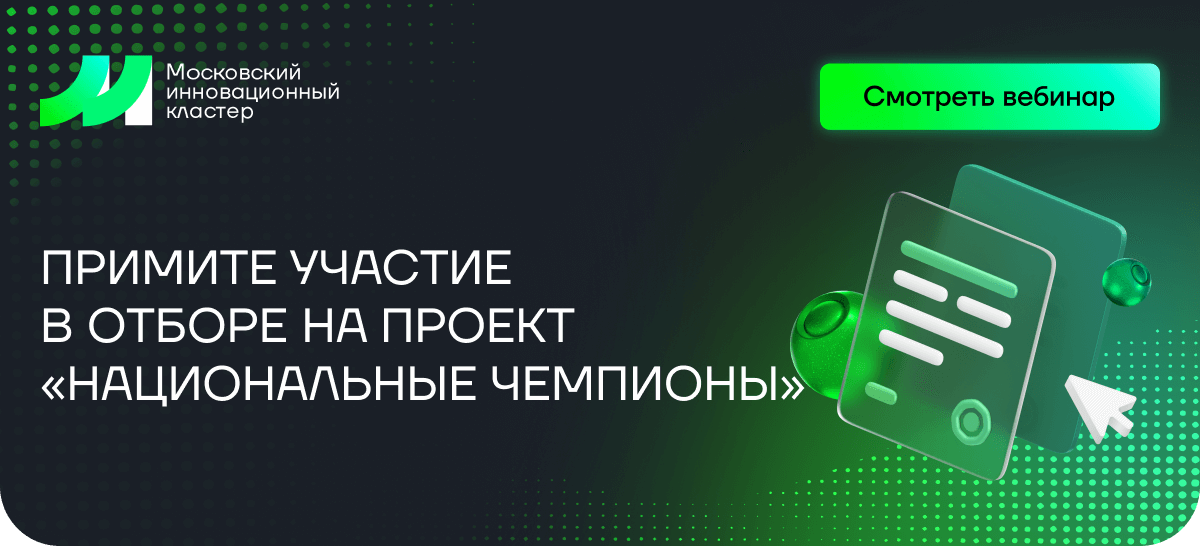
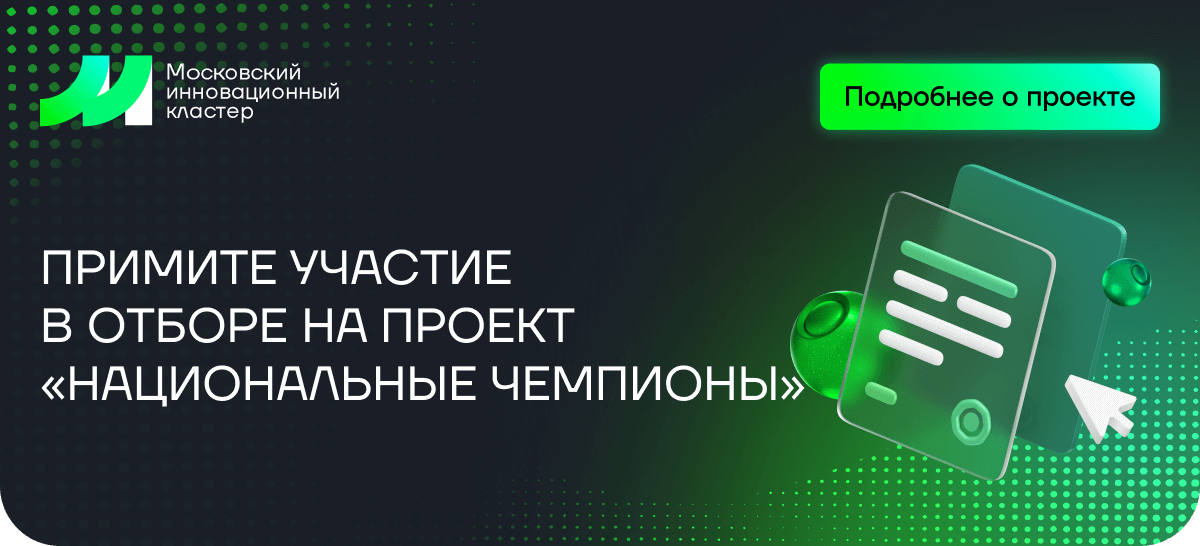
change mik-48

Changed region(s): [[0.6783, 0.1557, 0.9558, 0.2179]]

diff --git a/mik-48/Национальные чемпионы.html b/mik-48/Национальные чемпионы.html
@@ -102,8 +102,8 @@
                                         <tbody>
                                         <tr>
                                             <td style="width:600px;">
-                                                <a href="https://my.mts-link.ru/gsbhse/544538397" target="_blank">
-                                                    <img alt="Примите участие в&nbsp;отборе на проект «Национальные чемпионы». Смотреть вебинар." height="auto" src="https://cp.unisender.com/ru/user_file?resource=images&user_id=5608985&name=mik-48-hero.png" style="border:0;display:block;outline:none;text-decoration:none;height:auto;width:100%;font-size:13px;" width="600" />
+                                                <a href="https://www.natchamp.org/" target="_blank">
+                                                    <img alt="Примите участие в&nbsp;отборе на проект «Национальные чемпионы». Подробнее о проекте." height="auto" src="https://cp.unisender.com/ru/user_file?resource=images&user_id=5608985&name=mik-48-hero.png" style="border:0;display:block;outline:none;text-decoration:none;height:auto;width:100%;font-size:13px;" width="600" />
                                                 </a>
                                             </td>
                                         </tr>
@@ -125,7 +125,7 @@
         <table align="center" border="0" cellpadding="0" cellspacing="0" role="presentation" style="width:100%;">
             <tbody>
             <tr>
-                <td style="direction:ltr;font-size:0px;padding:28px 23px 32px 51px;">
+                <td style="direction:ltr;font-size:0px;padding:28px 23px 38px 51px;">
                     <!--[if mso | IE]><table role="presentation" border="0" cellpadding="0" cellspacing="0"><tr><td class="" style="vertical-align:top;width:600px;" ><![endif]-->
                     <div class="mj-column-per-100 mj-outlook-group-fix" style="font-size:0px;text-align:left;direction:ltr;display:inline-block;vertical-align:top;width:100%;">
                         <table border="0" cellpadding="0" cellspacing="0" role="presentation" style="vertical-align:top;" width="100%">
@@ -133,61 +133,6 @@
                             <tr>
                                 <td align="left" style="font-size:0px;word-break:break-word;">
                                     <div style="font-family:Gilroy, Helvetica, Arial, sans-serif;font-size:20px;font-weight:600;line-height:24px;text-align:left;color:#000000;">Примите участие в&nbsp;отборе на проект «Национальные чемпионы» и&nbsp;войдите в&nbsp;число отечественных компаний, которые будут обеспечивать технологический суверенитет России.</div>
-                                </td>
-                            </tr>
-                            </tbody>
-                        </table>
-                    </div>
-                    <!--[if mso | IE]></td></tr></table><![endif]-->
-                </td>
-            </tr>
-            </tbody>
-        </table>
-    </div>
-    <!--[if mso | IE]></td></tr></table><table align="center" border="0" cellpadding="0" cellspacing="0" class="" style="width:560px;" width="560" bgcolor="#1B1F28" ><tr><td style="line-height:0px;font-size:0px;mso-line-height-rule:exactly;"><![endif]-->
-    <div style="background:#1B1F28;background-color:#1B1F28;margin:0px auto;border-radius:20px;max-width:560px;">
-        <table align="center" border="0" cellpadding="0" cellspacing="0" role="presentation" style="background:#1B1F28;background-color:#1B1F28;width:100%;border-radius:20px;">
-            <tbody>
-            <tr>
-                <td style="direction:ltr;font-size:0px;padding:51px 20px 26px 7px;">
-                    <!--[if mso | IE]><table role="presentation" border="0" cellpadding="0" cellspacing="0"><tr><td class="" style="vertical-align:top;" ><![endif]-->
-                    <div class="mj-outlook-group-fix" style="font-size:0px;text-align:left;direction:ltr;display:inline-block;vertical-align:top;">
-                        <table border="0" cellpadding="0" cellspacing="0" role="presentation" style="vertical-align:top;" width="100%">
-                            <tbody>
-                            <tr>
-                                <td style="font-size:0px;word-break:break-word;">
-                                    <table border="0" cellpadding="0" cellspacing="0" role="presentation" style="border-collapse:collapse;border-spacing:0px;">
-                                        <tbody>
-                                        <tr>
-                                            <td style="width:175px;">
-                                                <img alt="Декоративная картинка" height="auto" src="https://cp.unisender.com/ru/user_file?resource=images&user_id=5608985&name=mik-44-content-img-1.png" style="border:0;display:block;outline:none;text-decoration:none;height:auto;width:100%;font-size:13px;" width="148" />
-                                            </td>
-                                        </tr>
-                                        </tbody>
-                                    </table>
-                                </td>
-                            </tr>
-                            </tbody>
-                        </table>
-                    </div>
-                    <!--[if mso | IE]></td><td class="" style="vertical-align:top;max-width:337px;width:100%;padding-left:10px;padding-right:10px;" ><![endif]-->
-                    <div class="mj-outlook-group-fix" style="font-size:0px;text-align:left;direction:ltr;display:inline-block;vertical-align:top;max-width:337px;width:100%;padding-left:10px;padding-right:10px;">
-                        <table border="0" cellpadding="0" cellspacing="0" role="presentation" style="vertical-align:top;" width="100%">
-                            <tbody>
-                            <tr>
-                                <td align="left" style="font-size:0px;word-break:break-word;padding-top:17px;">
-                                    <div style="font-family:Gilroy, Helvetica, Arial, sans-serif;font-size:20px;font-weight:500;line-height:24px;text-align:left;color:#FFFFFF;width:100%;">Все подробности о&nbsp;том, как участвовать в&nbsp;проекте, вы получите на бесплатном вебинаре, который состоится <span style="display: block;">12 февраля в&nbsp;11:00</span></div>
-                                </td>
-                            </tr>
-                            <tr>
-                                <td vertical-align="middle" style="font-size:0px;word-break:break-word;padding-top:18px;">
-                                    <table border="0" cellpadding="0" cellspacing="0" role="presentation" style="border-collapse:separate;max-width:176px;width:100%;line-height:100%;">
-                                        <tr>
-                                            <td align="center" bgcolor="#00FB07" role="presentation" style="border:none;border-radius:5px;cursor:auto;height:33px;mso-padding-alt:10px 25px;background: linear-gradient(80deg, #00FB07 34.41%, #00FED9 85.02%, #9FFFF6 103.22%);;" valign="middle">
-                                                <a href="https://my.mts-link.ru/gsbhse/544538397" style="display:inline-block;color:#000000;font-family:Gilroy, Helvetica, Arial, sans-serif;font-size:14px;font-weight:600;line-height:16.8px;margin:0;text-decoration:none;text-transform:none;mso-padding-alt:0px;border-radius:5px;" target="_blank">Смотреть вебинар</a>
-                                            </td>
-                                        </tr>
-                                    </table>
                                 </td>
                             </tr>
                             </tbody>
@@ -210,7 +155,7 @@
                         <table border="0" cellpadding="0" cellspacing="0" role="presentation" style="vertical-align:top;" width="100%">
                             <tbody>
                             <tr>
-                                <td align="left" style="font-size:0px;word-break:break-word;padding:24px 23px 17px;">
+                                <td align="left" style="font-size:0px;word-break:break-word;padding:0px 23px 17px;">
                                     <div style="font-family:Gilroy, Helvetica, Arial, sans-serif;font-size:24px;font-weight:600;line-height:28.8px;text-align:left;color:#000000;">ЧТО ПОЛУЧАЮТ УЧАСТНИКИ ПРОЕКТА:</div>
                                 </td>
                             </tr>
@@ -404,7 +349,7 @@
         <table align="center" border="0" cellpadding="0" cellspacing="0" role="presentation" style="width:100%;">
             <tbody>
             <tr>
-                <td style="direction:ltr;font-size:0px;padding:25px 51px 9px;">
+                <td style="direction:ltr;font-size:0px;padding:40px 51px 9px;">
                     <!--[if mso | IE]><table role="presentation" border="0" cellpadding="0" cellspacing="0"><tr><td class="" style="vertical-align:top;width:600px;" ><![endif]-->
                     <div class="mj-column-per-100 mj-outlook-group-fix" style="font-size:0px;text-align:left;direction:ltr;display:inline-block;vertical-align:top;width:100%;">
                         <table border="0" cellpadding="0" cellspacing="0" role="presentation" style="vertical-align:top;" width="100%">
@@ -448,7 +393,7 @@
         </table>
     </div>
     <!--[if mso | IE]></td></tr></table><table align="center" border="0" cellpadding="0" cellspacing="0" class="" style="width:560px;" width="560" ><tr><td style="line-height:0px;font-size:0px;mso-line-height-rule:exactly;"><![endif]-->
-    <div style="margin:0px auto;max-width:560px;border-radius:30px;border:2px solid #00FB07;">
+    <div style="margin:0px auto;max-width:560px;border-radius:30px;border:2px solid #00FB07;margin-bottom:29px;">
         <table align="center" border="0" cellpadding="0" cellspacing="0" role="presentation" style="width:100%;">
             <tbody>
             <tr>
@@ -471,118 +416,6 @@
             </tbody>
         </table>
     </div>
-    <!--[if mso | IE]></td></tr></table><table align="center" border="0" cellpadding="0" cellspacing="0" class="" style="width:600px;" width="600" ><tr><td style="line-height:0px;font-size:0px;mso-line-height-rule:exactly;"><![endif]-->
-    <div style="margin:0px auto;max-width:600px;">
-        <table align="center" border="0" cellpadding="0" cellspacing="0" role="presentation" style="width:100%;">
-            <tbody>
-            <tr>
-                <td style="direction:ltr;font-size:0px;padding:32px 17px 10px 22px;">
-                    <div class="mj-outlook-group-fix" style="font-size:0px;text-align:left;direction:ltr;display:inline-block;vertical-align:top;max-width:290px;width:100%;min-height:119px;background: linear-gradient(80deg, #00FB07 34.41%, #00FED9 85.02%, #9FFFF6 103.22%);;border-radius:20px;margin-right:20px;margin-bottom:20px;">
-                        <table border="0" cellpadding="0" cellspacing="0" role="presentation" style="vertical-align:top;" width="100%">
-                            <tbody>
-                            <tr>
-                                <td style="font-size:0px;word-break:break-word;padding:13px 9px 11px 9px;">
-                                    <table border="0" cellpadding="0" cellspacing="0" role="presentation" style="border-collapse:separate;width:100%;line-height:100%;">
-                                        <tr>
-                                            <td style="font-size:0px;word-break:break-word;padding-bottom:7px">
-                                                <div style="display:inline-block;width:100%;color:#000000;font-family:Gilroy, Helvetica, Arial, sans-serif;font-size:30px;font-weight:600;line-height:120%;margin:0;text-decoration:none;text-transform:none;mso-padding-alt:0px;border-radius:20px;">КОГДА?</div>
-                                            </td>
-                                        </tr>
-                                        <tr>
-                                            <td>
-                                                <div>
-                                                    <table align="center" border="0" cellpadding="0" cellspacing="0" role="presentation" style="width:100%;">
-                                                        <tbody>
-                                                        <tr>
-                                                            <td style="direction:ltr;font-size:0px;">
-                                                                <!--[if mso | IE]><table role="presentation" border="0" cellpadding="0" cellspacing="0"><tr><td class="" style="vertical-align:top;width:121px;margin-right:6px;" ><![endif]-->
-                                                                <div class="mj-outlook-group-fix" style="font-size:0px;text-align:left;direction:ltr;display:inline-block;vertical-align:top;width:121px;border-radius:50px;border:1px solid #000000;margin-right:6px;margin-bottom:10px;">
-                                                                    <table border="0" cellpadding="0" cellspacing="0" role="presentation" style="vertical-align:top;" width="100%">
-                                                                        <tbody>
-                                                                        <tr>
-                                                                            <td align="center" style="font-size:0px;word-break:break-word;height:33px;">
-                                                                                <div style="display:inline-block;color:#000000;font-family:Gilroy, Helvetica, Arial, sans-serif;font-size:16px;font-weight:400;line-height:120%;margin:0;text-decoration:none;text-transform:none;mso-padding-alt:0px;border-radius:20px;">12 февраля</div>
-                                                                            </td>
-                                                                        </tr>
-                                                                        </tbody>
-                                                                    </table>
-                                                                </div>
-                                                                <!--[if mso | IE]></td><td class="" style="vertical-align:top;width:132px;" ><![endif]-->
-                                                                <div class="mj-outlook-group-fix" style="font-size:0px;text-align:left;direction:ltr;display:inline-block;vertical-align:top;width:132px;border-radius:50px;border:1px solid #000000">
-                                                                    <table border="0" cellpadding="0" cellspacing="0" role="presentation" style="vertical-align:top;" width="100%">
-                                                                        <tbody>
-                                                                        <tr>
-                                                                            <td align="center" style="font-size:0px;word-break:break-word;height:33px">
-                                                                                <div style="display:inline-block;color:#000000;font-family:Gilroy, Helvetica, Arial, sans-serif;font-size:16px;font-weight:400;line-height:120%;margin:0;text-decoration:none;text-transform:none;mso-padding-alt:0px;border-radius:20px;">11:00-13:00</div>
-                                                                            </td>
-                                                                        </tr>
-                                                                        </tbody>
-                                                                    </table>
-                                                                </div>
-                                                                <!--[if mso | IE]></td></tr></table><![endif]-->
-                                                            </td>
-                                                        </tr>
-                                                        </tbody>
-                                                    </table>
-                                                </div>
-                                            </td>
-                                        </tr>
-                                    </table>
-                                </td>
-                            </tr>
-                            </tbody>
-                        </table>
-                    </div>
-                    <div class="mj-outlook-group-fix" style="font-size:0px;text-align:left;direction:ltr;display:inline-block;vertical-align:top;width:250px;min-height:119px;background: linear-gradient(80deg, #00FB07 34.41%, #00FED9 85.02%, #9FFFF6 103.22%);margin-bottom:20px;border-radius:20px;">
-                        <table border="0" cellpadding="0" cellspacing="0" role="presentation" style="vertical-align:top;" width="100%">
-                            <tbody>
-                            <tr>
-                                <td style="font-size:0px;word-break:break-word;padding:13px 10px 10px 10px;">
-                                    <table border="0" cellpadding="0" cellspacing="0" role="presentation" style="border-collapse:separate;width:100%;line-height:100%;">
-                                        <tr>
-                                            <td style="font-size:0px;word-break:break-word;padding-bottom:7px">
-                                                <div style="display:inline-block;width:200px;color:#000000;font-family:Gilroy, Helvetica, Arial, sans-serif;font-size:30px;font-weight:600;line-height:120%;margin:0;text-decoration:none;text-transform:none;mso-padding-alt:0px;border-radius:20px;">ГДЕ?</div>
-                                            </td>
-                                        </tr>
-                                        <tr>
-                                            <td>
-                                                <div>
-                                                    <table align="center" border="0" cellpadding="0" cellspacing="0" role="presentation" style="width:100%;">
-                                                        <tbody>
-                                                        <tr>
-                                                            <td style="direction:ltr;font-size:0px;text-align: center;">
-                                                                <!--[if mso | IE]><table role="presentation" border="0" cellpadding="0" cellspacing="0"><tr><td class="" style="vertical-align:top;width:230px;" ><![endif]-->
-                                                                <div class="mj-outlook-group-fix" style="font-size:0px;text-align:left;direction:ltr;display:inline-block;vertical-align:top;width:230px;border-radius:50px;border:1px solid #000000;">
-                                                                    <table border="0" cellpadding="0" cellspacing="0" role="presentation" style="vertical-align:top;" width="100%">
-                                                                        <tbody>
-                                                                        <tr>
-                                                                            <td align="center" style="font-size:0px;word-break:break-word;height:50px;">
-                                                                                <div style="display:inline-block;color:#000000;font-family:Gilroy, Helvetica, Arial, sans-serif;font-size:16px;font-weight:400;line-height:120%;margin:0;text-decoration:none;text-transform:none;mso-padding-alt:0px;border-radius:20px;">Онлайн <a href="https://my.mts-link.ru/gsbhse/544538397" target="_blank" style="color: inherit;display:block;">Отбор нацчемпионов - 2024</a></div>
-                                                                            </td>
-                                                                        </tr>
-                                                                        </tbody>
-                                                                    </table>
-                                                                </div>
-                                                                <!--[if mso | IE]></td><td class="" style="vertical-align:top;width:140px;" ><![endif]-->
-                                                                <!--[if mso | IE]></td></tr></table><![endif]-->
-                                                            </td>
-                                                        </tr>
-                                                        </tbody>
-                                                    </table>
-                                                </div>
-                                            </td>
-                                        </tr>
-                                    </table>
-                                </td>
-                            </tr>
-                            </tbody>
-                        </table>
-                    </div>
-                </td>
-            </tr>
-            </tbody>
-        </table>
-    </div>
     <!--[if mso | IE]></td></tr></table><table align="center" border="0" cellpadding="0" cellspacing="0" class="" style="width:600px;" width="600" ><tr><td style="line-height:0px;font-size:0px;mso-line-height-rule:exactly;"><v:rect style="width:600px;" xmlns:v="urn:schemas-microsoft-com:vml" fill="true" stroke="false"><v:fill origin="0.5, 0" position="0.5, 0" src="https://cp.unisender.com/ru/user_file?resource=images&user_id=5608985&name=mik-23-bg.png" type="tile" size="1,1" aspect="atleast" /><v:textbox style="mso-fit-shape-to-text:true" inset="0,0,0,0"><![endif]-->
     <div style="background:url(https://cp.unisender.com/ru/user_file?resource=images&user_id=5608985&name=mik-23-bg.png) center top / cover repeat;background-position:center top;background-repeat:repeat;background-size:cover;margin:0px auto;max-width:600px;">
         <div style="line-height:0;font-size:0;">
@@ -599,7 +432,7 @@
                                         <table border="0" cellpadding="0" cellspacing="0" role="presentation" style="border-collapse:separate;max-width:373px;width:100%;line-height:100%;">
                                             <tr>
                                                 <td align="center" bgcolor="linear-gradient(80deg, #00FB07 34.41%, #00FED9 85.02%, #9FFFF6 103.22%)" role="presentation" style="border:none;border-radius:10px;cursor:auto;height:50px;mso-padding-alt:10px 25px;background:linear-gradient(80deg, #00FB07 34.41%, #00FED9 85.02%, #9FFFF6 103.22%);" valign="middle">
-                                                    <a href="https://my.mts-link.ru/gsbhse/544538397" style="display:inline-block;color:#000000;font-family:Gilroy, Helvetica, Arial, sans-serif;font-size:25px;font-weight:600;line-height:120%;margin:0;text-decoration:none;text-transform:none;mso-padding-alt:0px;border-radius:5px;" target="_blank">Присоединиться к вебинару</a>
+                                                    <a href="https://www.natchamp.org/" style="display:inline-block;color:#000000;font-family:Gilroy, Helvetica, Arial, sans-serif;font-size:25px;font-weight:600;line-height:120%;margin:0;text-decoration:none;text-transform:none;mso-padding-alt:0px;border-radius:5px;" target="_blank">Подробнее о проекте</a>
                                                 </td>
                                             </tr>
                                         </table>
